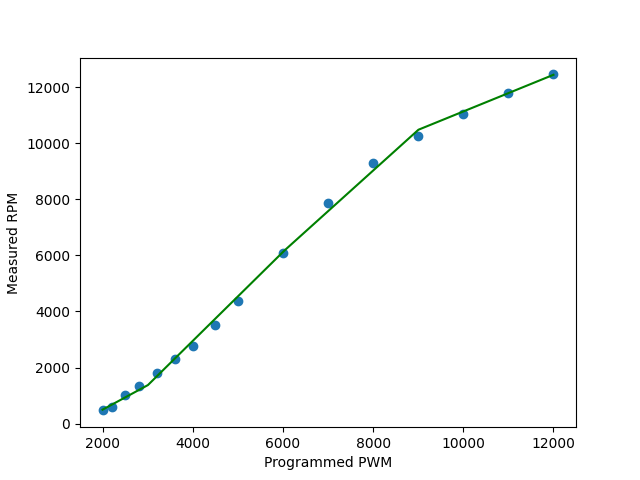
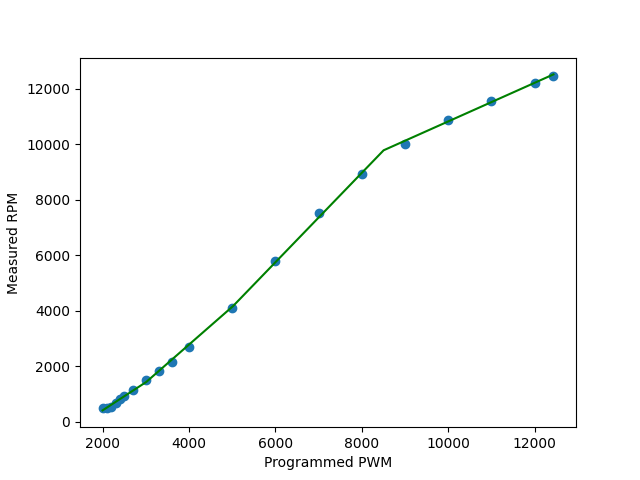
更新 fit_nonlinear_spindle.py 中的 PWM 和 RPM 設置，調整數據以改善非線性擬合；更新 spindle_validation_template.csv 以包含新的 RPM 數據；更新子模組至最新版本

diff --git a/Docs/fit_nonlinear_spindle.py b/Docs/fit_nonlinear_spindle.py
@@ -170,7 +170,7 @@ n_pieces = 4 # Number of line segments used for data fit. Only 1 to 4 line segme
 # ENABLE_SPINDLE_LINEARIZATION 0
 # DEFAULT_SPINDLE_RPM_MAX 12000.0f // rpm - Updated from spindle linearization fit
 # DEFAULT_SPINDLE_RPM_MIN 2000.0f // rpm - Must be 0 for spindle linearization to work correctly
-# DEFAULT_SPINDLE_PWM_MIN_VALUE 16.667f // Percent (2000/12000*100). Updated from spindle linearization fit
+# DEFAULT_SPINDLE_PWM_MIN_VALUE 0.0f // Percent (2000/12000*100). Updated from spindle linearization fit
 
 
 # Programmed 'S' spindle speed values. Must start with minimum useful PWM or 'S' programm ed
@@ -178,7 +178,7 @@ n_pieces = 4 # Number of line segments used for data fit. Only 1 to 4 line segme
 # be synced with the RPM_measured array below. 
 # NOTE: ** DO NOT USE DATA FROM AN EXISTING PIECEWISE LINE FIT. USE DEFAULT GRBL MODEL ONLY. **
 PWM_set = np.array([
-    2000,2200,2500,2800,3200,3600,4000,4500,5000,6000,7000,8000,9000,10000,11000,12000
+    2000,2100,2200,2300,2400,2500,2700,3000,3300,3600,4000,5000,6000,7000,8000,9000,10000,11000,12000,12436
 ], dtype=float)
 
 # Actual RPM measured at the spindle. Must be in the ascending value and equal in length 
@@ -186,7 +186,7 @@ PWM_set = np.array([
 # last array entries, respectively.
 # Tip: if S100~S2000 all read ~480RPM, that is likely $31/$35 clamping behavior.
 # 提示：若 S100~S2000 都約 480RPM，通常是 $31/$35 低速夾住，不是量測器故障。
-RPM_measured = np.array([473,610,1020,1350,1810,2310,2785,3530,4380,6100,7870,9280,10250,11050,11800,12450], dtype=float)
+RPM_measured = np.array([490,493,522,678,800,916,1158,1507,1809,2160,2691,4100,5800,7510,8940,10000,10860,11580,12230,12480], dtype=float)
 
 # Configure line fit points by 'S' programmed rpm or PWM value. Values must be between 
 # PWM_max and PWM_min. Typically, alter these values to space the points evenly between 
@@ -194,8 +194,8 @@ RPM_measured = np.array([473,610,1020,1350,1810,2310,2785,3530,4380,6100,7870,92
 # you normally operate for highly nonlinear curves. Plot to visually assess how well the 
 # solution fits the data.
 PWM_point1 = 3000.0 # (S) Point between segments 0 and 1. Used when n_pieces >= 2.
-PWM_point2 = 6000.0  # (S) Point between segments 1 and 2. Used when n_pieces >= 3.
-PWM_point3 = 9000.0  # (S) Point between segments 2 and 3. Used when n_pieces = 4.
+PWM_point2 = 5000.0  # (S) Point between segments 1 and 2. Used when n_pieces >= 3.
+PWM_point3 = 8500.0  # (S) Point between segments 2 and 3. Used when n_pieces = 4.
 
 # ----------------------------------------------------------------------------------------
 
